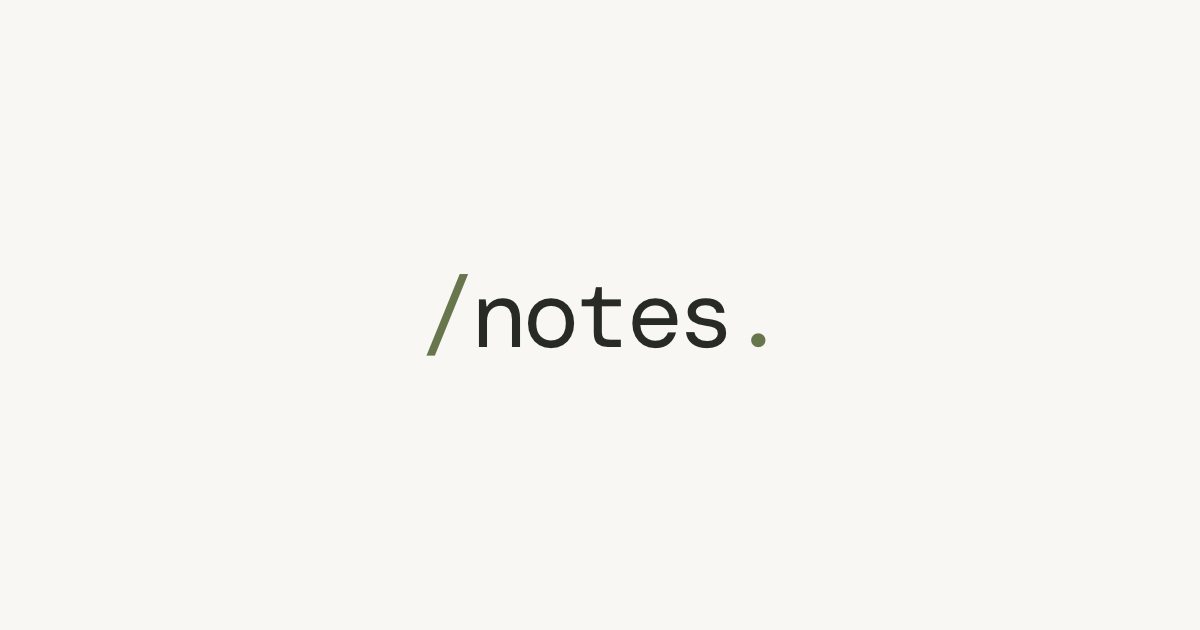
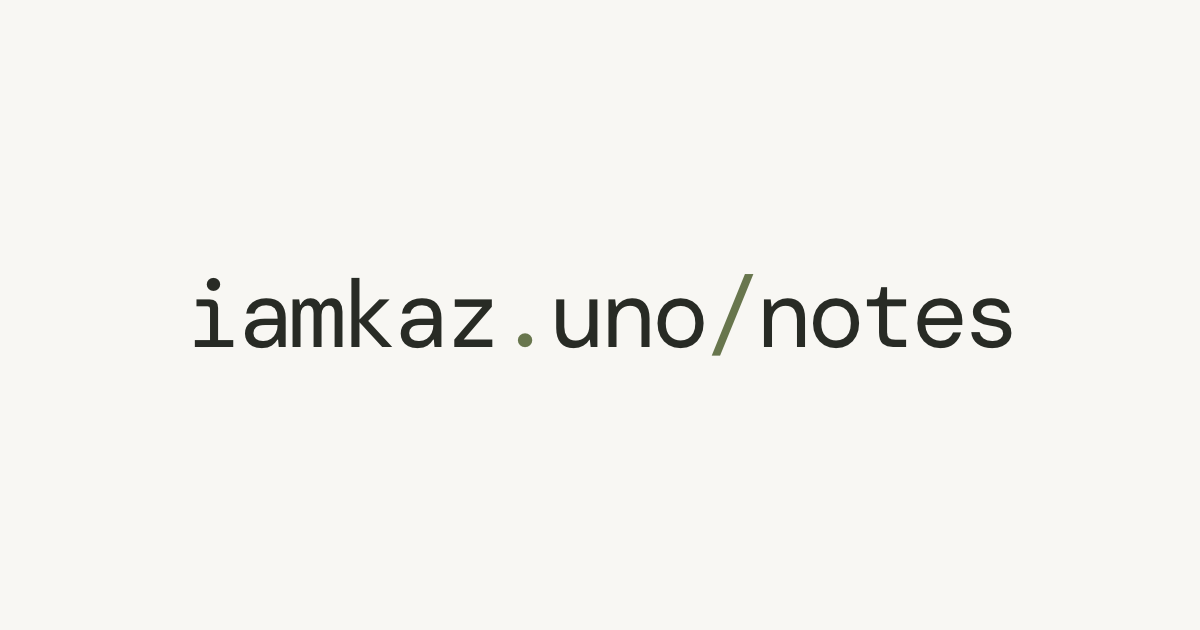
Unify notes and picks OG images and generation skill

Changed region(s): [[0.1542, 0.4222, 0.8633, 0.573]]

diff --git a/.agents/skills/generate-og/SKILL.md b/.agents/skills/generate-og/SKILL.md
@@ -1,0 +1,34 @@
+---
+name: generate-og
+description: iamkaz.uno・iamkaz.uno/notes・iamkaz.uno/picks の、無地の背景にワードマークを中央配置したOG 画像を生成・更新する。og-home.png、og-notes.png、og-picks.png の作成・再生成や、同じテイストの文字中心の OG 画像を依頼されたときに使う。
+---
+
+# OG 画像生成
+
+リポジトリルートで [scripts/generate.mjs](scripts/generate.mjs) を実行する。既存の Playwright・Chromium・sharp と DM Mono を使い、ライトモードの配色を `src/styles/global.css` から読み込む。
+
+```sh
+node .agents/skills/generate-og/scripts/generate.mjs home
+node .agents/skills/generate-og/scripts/generate.mjs notes
+node .agents/skills/generate-og/scripts/generate.mjs picks
+```
+
+依頼された対象だけを実行する。描画する文言と出力先は次のとおり。末尾にピリオドは付けない。notes のトップと各ノートは同じ画像を使う。
+
+| 対象 | 文言 | 出力先 |
+| --- | --- | --- |
+| `home` | `iamkaz.uno` | `public/og-home.png` |
+| `notes` | `iamkaz.uno/notes` | `public/og-notes.png` |
+| `picks` | `iamkaz.uno/picks` | `public/og-picks.png` |
+
+プレビューのみの場合は第2引数で `.tmp/` 内の出力先を指定する。
+
+```sh
+node .agents/skills/generate-og/scripts/generate.mjs notes .tmp/og/notes-preview.png
+```
+
+- 既定は 1200 × 630px の不透明 PNG。余白を広く取り、ワードマークだけを中央に置く。背景・文字・アクセントはサイトのライトモードに合わせる。ドメインの `.` とパスの `/` をアクセント色にする。picks も notes と同じ仕様で、商品画像は使わない。
+- 文言・サイズ・配置などの変更指定があれば、スクリプトのプリセットや描画スタイルを調整する。
+- Chromium が未導入なら `docs/development.md` のブラウザ準備を参照する。
+- 出力画像を開き、表記、中央配置、色、文字切れがないことを確認する。再生成では既存画像とも比較する。スクリプトの出力で画像サイズを確認し、完成画像と保存先を報告する。
+- ページへの OG 設定追加も依頼された場合は対象ページの `BaseLayout` の `image`・`imageAlt` を設定する。生成だけの依頼でコミットやデプロイは行わない。
